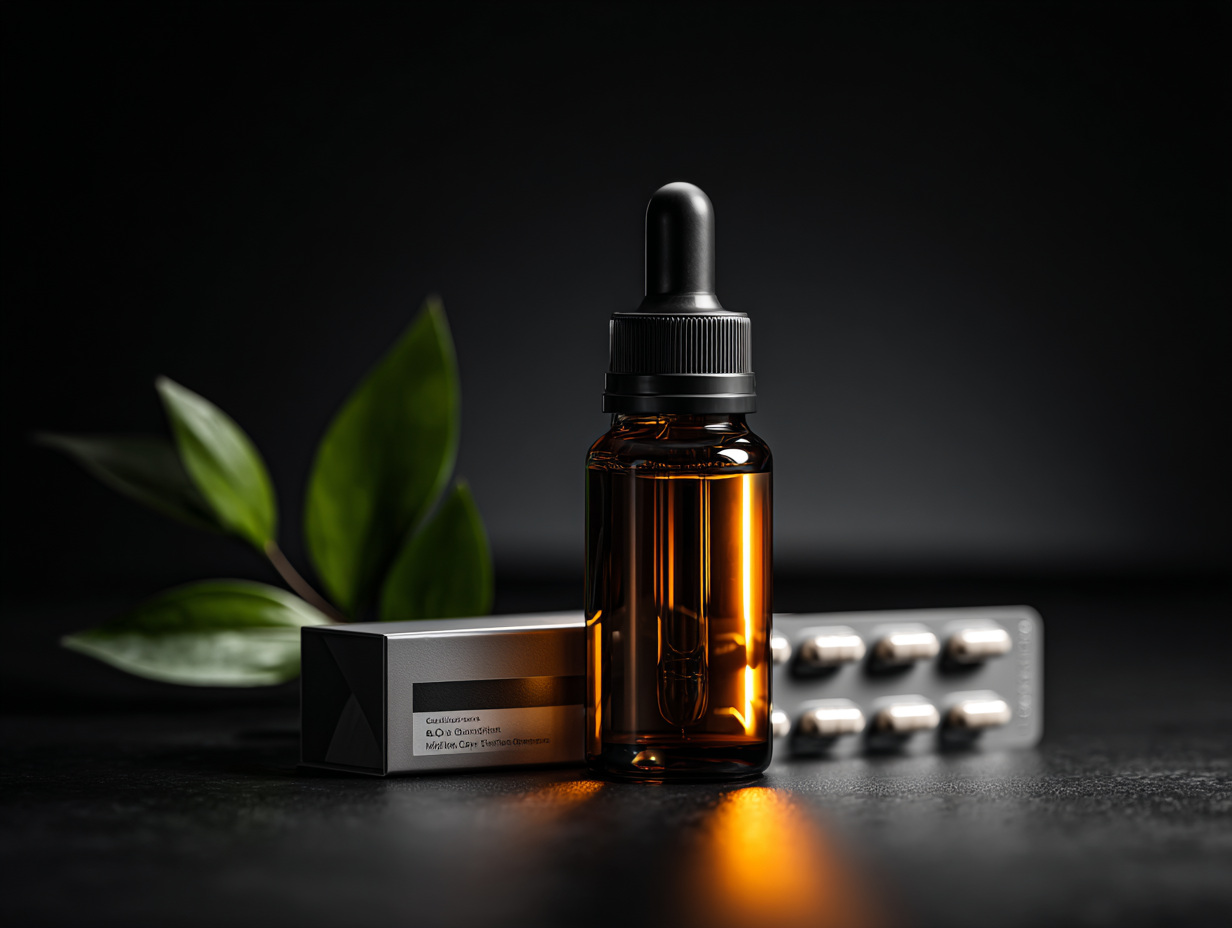
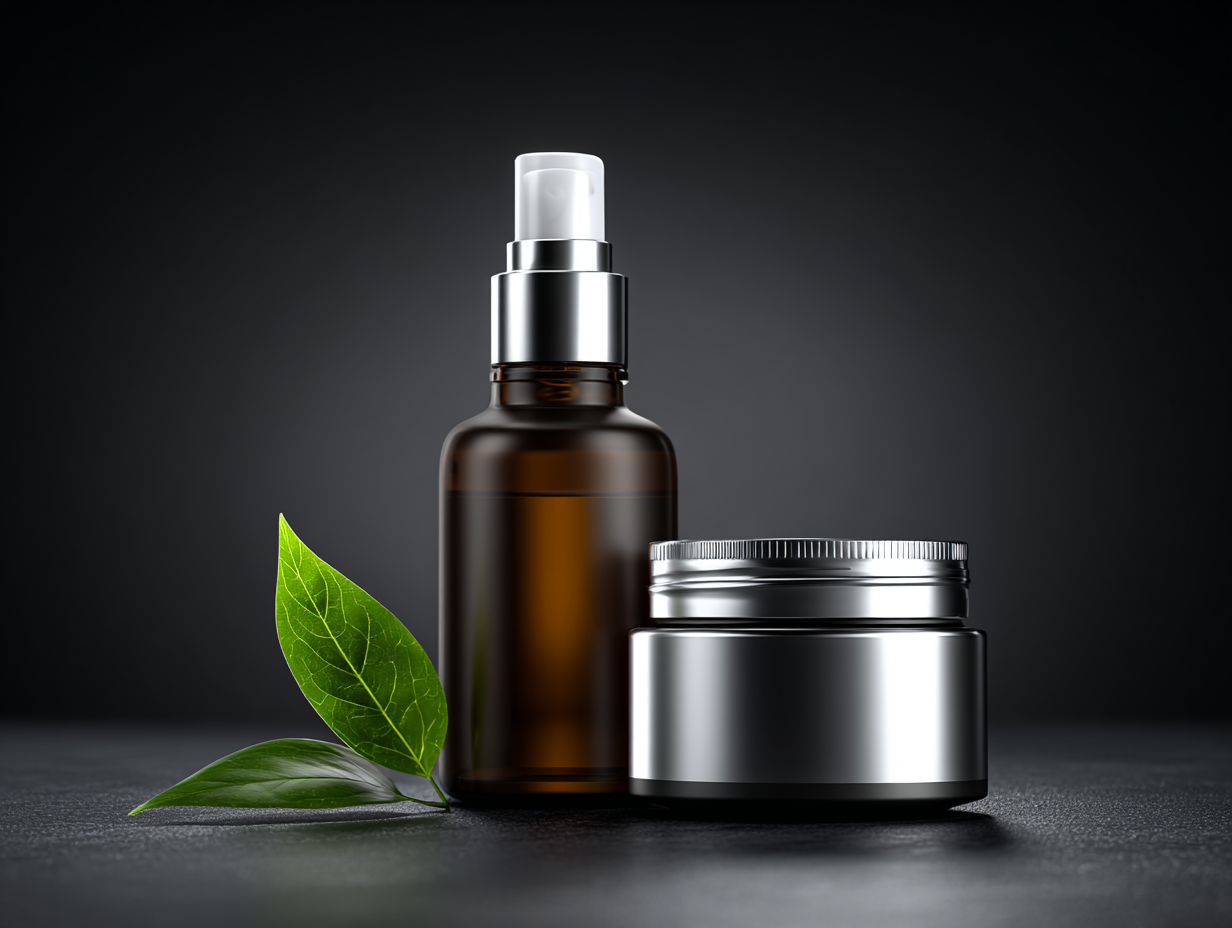
fix: Who We Serve title white-on-dark + regen pharma/indie-dtc images with pumps

diff --git a/app/page.tsx b/app/page.tsx
@@ -153,7 +153,7 @@ function ClientIdentityCards() {
     <section className="bg-[#1A1A1A]">
       <div className="section-container section-padding">
         <div className="reveal text-center mb-12 md:mb-16">
-          <h2 className="section-title mb-4 text-white">
+          <h2 className="section-title-white mb-4">
             {t.whoWeServe.title}
           </h2>
           <p className="text-[#B0B0B0] max-w-xl mx-auto leading-relaxed text-sm">